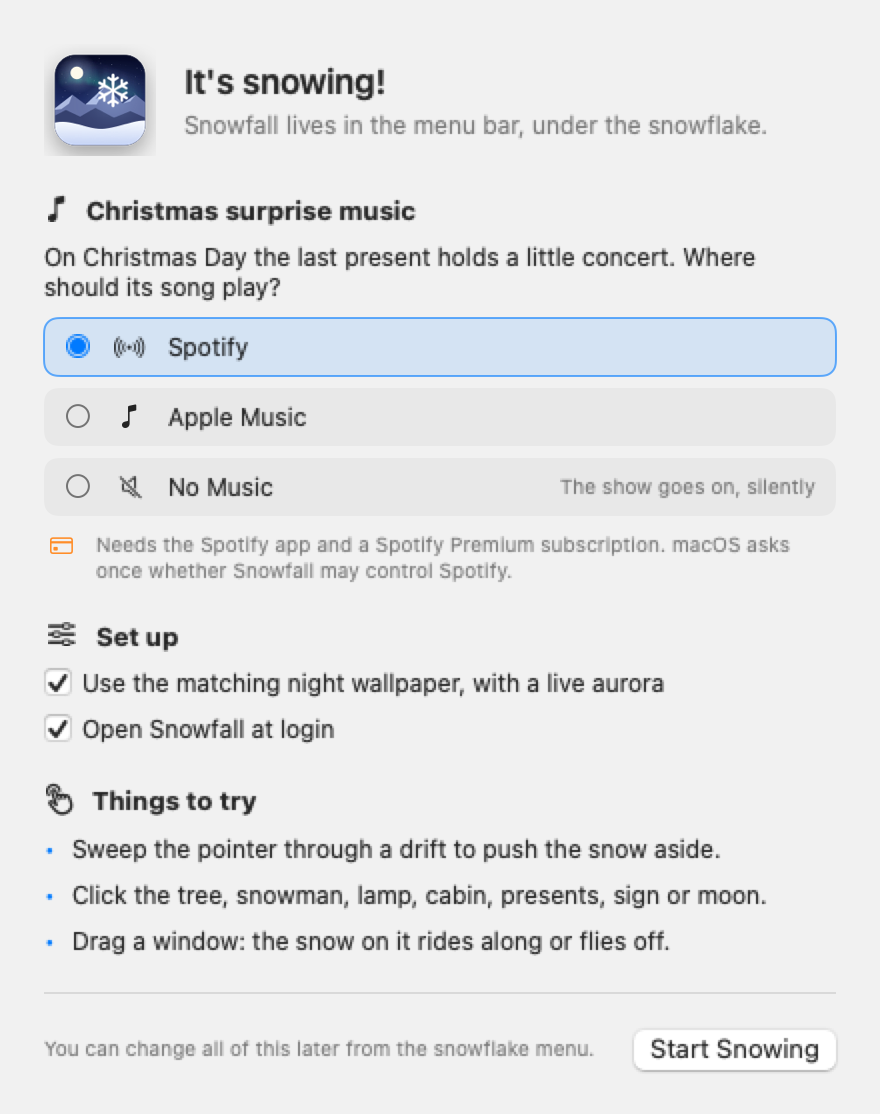
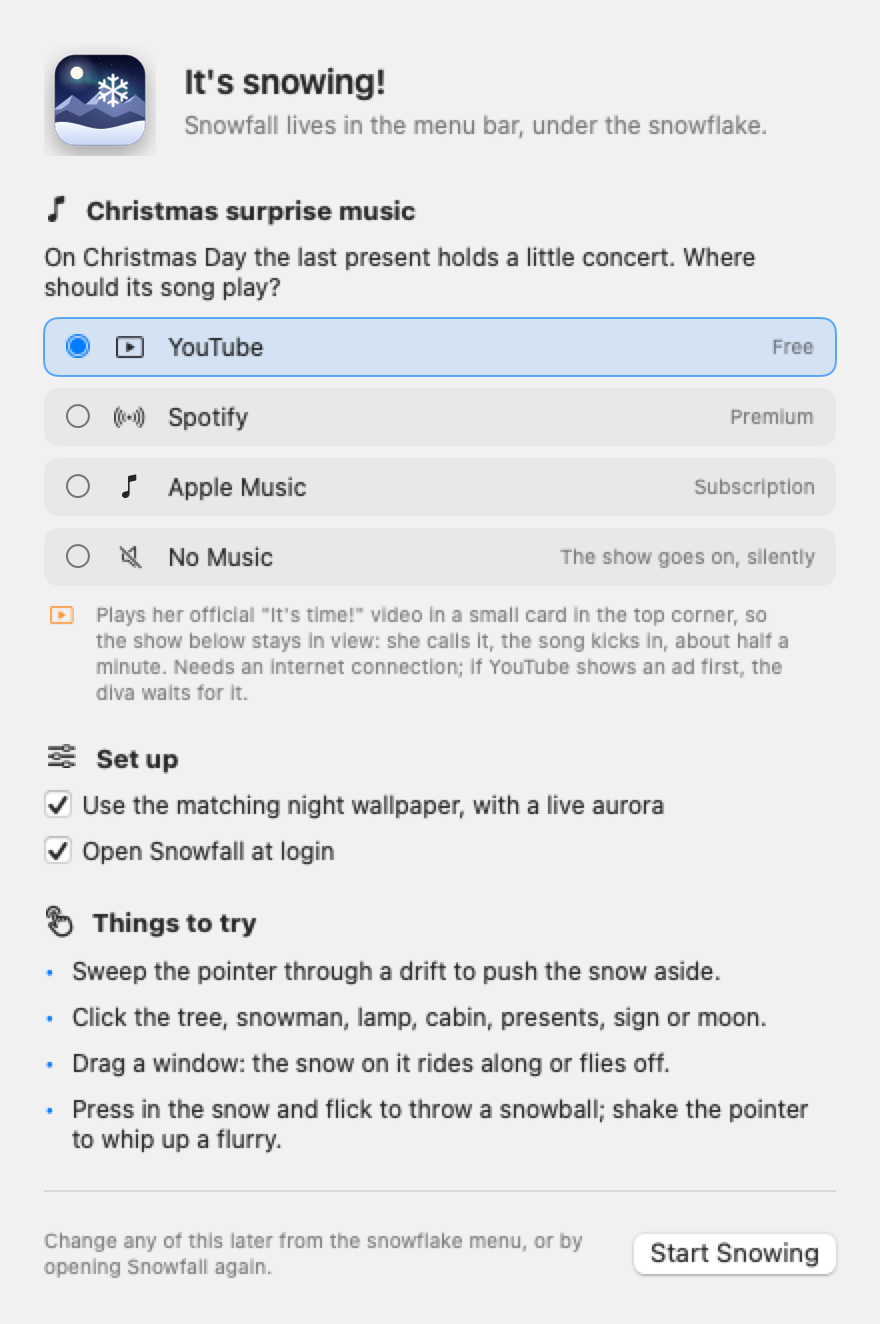
Snowfall 1.0.1: YouTube option, snowball flicks, updated setup

diff --git a/README.md b/README.md
@@ -37,10 +37,11 @@ A snowflake ❄ appears in the menu bar. Everything is controlled from there.
 
 ### First launch
 
-A short setup asks where the Christmas surprise song should play: **Spotify**, **Apple Music** or **no music**.
+A short setup asks where the Christmas surprise song should play: **YouTube**, **Spotify**, **Apple Music** or **no music**.
 
-- Either service needs its app and a **subscription** (Spotify Premium, or Apple Music).
-- macOS asks once whether Snowfall may control that app.
+- **YouTube is free**: her official "It's time!" video plays in a small card in the top corner, so the show below stays in view. The ice bursts as she calls it and the song kicks in, for about half a minute. It needs an internet connection, and if YouTube shows an ad first, the show waits for it.
+- Spotify and Apple Music play the whole song, with the whole four-minute show.
+- Spotify and Apple Music need their app and a **subscription** (Spotify Premium, or Apple Music). macOS asks once whether Snowfall may control that app.
 - Apple Music only lets other apps play songs that are in your library, so the setup has a button that opens the song in Music: click **+** to add it.
 
 You can change this later under **Christmas Music** in the snowflake menu, or open **Setup…** again.
@@ -61,17 +62,18 @@ curl -fsSL https://raw.githubusercontent.com/heonrim/snowfall-releases/main/inst
 
 **或用 DMG：** 下載 [Snowfall.dmg](https://github.com/heonrim/snowfall-releases/releases/latest/download/Snowfall.dmg)，把 Snowfall 拖進 Applications。第一次打開時 macOS 會說無法驗證開發者（因為這是沒付費給 Apple 公證的免費 App），按「完成」，再到「系統設定 → 隱私權與安全性」往下捲，按 Snowfall 旁邊的「強制打開」即可，只需一次。
 
-**第一次打開：** 會先請你選擇聖誕驚喜歌曲要用哪裡播放：**Spotify**、**Apple Music** 或**不播放音樂**。
-- 兩種都需要安裝對應的 App，並且**有訂閱**（Spotify Premium 或 Apple Music）。
-- macOS 會問一次是否允許 Snowfall 控制該 App。
+**第一次打開：** 會先請你選擇聖誕驚喜歌曲要用哪裡播放：**YouTube**、**Spotify**、**Apple Music** 或**不播放音樂**。
+- **YouTube 免費**：她官方的「It's time!」影片會在螢幕上方角落的小卡片裡播放，不會擋住下方的表演。她喊出 It's time 時冰塊剛好爆開、接著歌曲響起，大約半分鐘。需要網路；如果 YouTube 先播廣告，表演會等廣告結束再開始。
+- Spotify 和 Apple Music 會播完整首歌，表演也是完整的四分鐘。
+- Spotify 和 Apple Music 需要安裝對應的 App 並且**有訂閱**（Spotify Premium 或 Apple Music），macOS 會問一次是否允許 Snowfall 控制該 App。
 - Apple Music 只允許其他 App 播放「資料庫」裡的歌曲，所以設定畫面有按鈕可以在「音樂」App 打開這首歌，按 **+** 加入資料庫即可。
 
-之後可以在選單列雪花的 **Christmas Music** 更改，或重新打開 **Setup…**。
+之後可以在選單列雪花的 **Christmas Music** 更改，或重新打開 **Setup…**。如果選單列的雪花被瀏海或太多圖示擋住，再打開一次 Snowfall 就會出現設定畫面。
 
 ## What's inside
 
 - Snow in three layers with wind, piling up on the ground, on top of windows and on the Dock. Drag a window and it stirs up the snow around it.
-- A cozy winter scene along the bottom of the screen: cabin, snowman, street lamp, Christmas tree and presents. Click things; most of them answer back.
+- A cozy winter scene along the bottom of the screen: cabin, snowman, street lamp, Christmas tree and presents. Click things; most of them answer back. Flick the snow to throw a snowball, or shake the pointer for a flurry.
 - Little snowmen get built on windows that have gathered enough snow.
 - A chalkboard countdown to Christmas, and four presents to open on Christmas Day, full of surprises (balloons, a toy train, a snowball fight, fireworks that write in the sky…), with the best one saved for last (and maybe a peek before, if you knock).
 - Light on battery: 30 fps when idle, pauses behind full-screen apps, honors Low Power Mode and Reduce Motion.
@@ -84,11 +86,11 @@ curl -fsSL https://raw.githubusercontent.com/heonrim/snowfall-releases/main/inst
 
 ## Permissions
 
-Snowfall needs **no permissions**. It reads window positions (never their contents) so snow can land on them. If you choose Spotify or Apple Music for the Christmas song, macOS asks once whether Snowfall may control that app; saying no only keeps the show silent. Snowfall makes no network connections and collects nothing.
+Snowfall needs **no permissions**. It reads window positions (never their contents) so snow can land on them. If you choose Spotify or Apple Music for the Christmas song, macOS asks once whether Snowfall may control that app; saying no only keeps the show silent. Snowfall collects nothing. It goes online only for *Check for Updates…* when you choose it, and for the video if you pick YouTube for the Christmas song.
 
 ## Uninstall
 
-Choose **Quit Snowfall** from the snowflake menu, then delete it:
+To get your old wallpaper back, choose **Night Sky → Restore Previous Wallpaper** first. Then choose **Quit Snowfall** from the snowflake menu and delete it:
 
 ```bash
 rm -rf /Applications/Snowfall.app
@@ -97,7 +99,7 @@ defaults delete io.github.heonrim.snowfall
 
 ## Trademarks
 
-Spotify and Apple Music are trademarks of their owners; Snowfall is not affiliated with or endorsed by them. Snowfall includes no music: the song plays in your own Spotify or Music app, through your own subscription.
+YouTube, Spotify and Apple Music are trademarks of their owners; Snowfall is not affiliated with or endorsed by them. Snowfall includes no music: the song plays in YouTube's own player, or in your own Spotify or Music app.
 
 ## License
 
